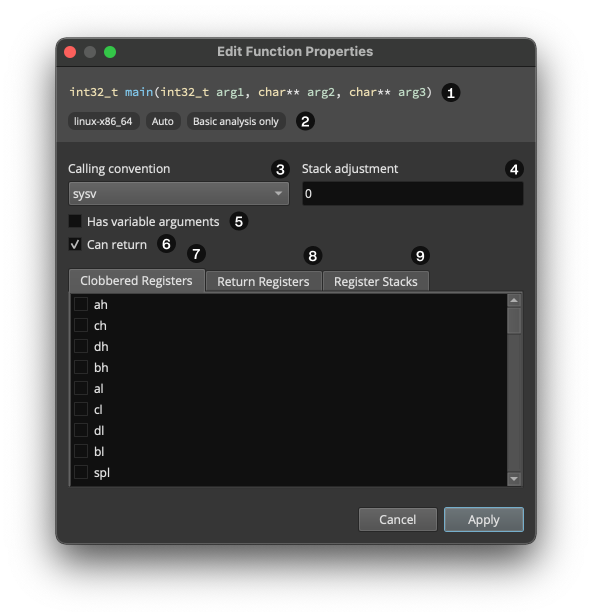
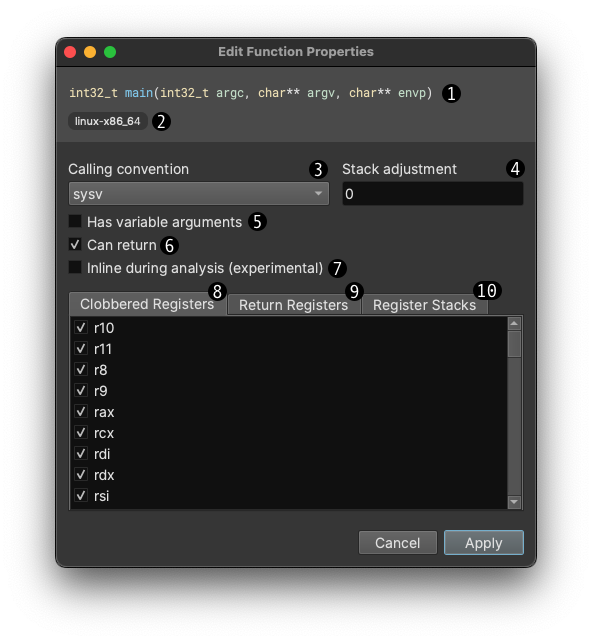
update function properties dialog docs for inlining

diff --git a/docs/guide/index.md b/docs/guide/index.md
@@ -444,7 +444,7 @@ The sorting order of segments and sections can be changed by clicking on any col
 
 The “Edit Function Properties” dialog provides the ability to easily configure some of a function’s more advanced properties. It can be opened via the context menu when a function is focused in the graph or linear views, or via the command palette. An overview of the UI is as follows:
 
-1. **Function prototype.** The function’s prototype. If the prototype is too long to fit inside the window, a scroll bar will appear.
+0. **Function prototype.** The function’s prototype. If the prototype is too long to fit inside the window, a scroll bar will appear.
 1. **Function info.** A list of conditionally-shown tags offering information about the function. Possible tags are as follows:
     - **Function architecture/platform**: The function's architecture/platform (e.g. `windows-x86_64`)
     - **Analysis skipped (too large)**: Analysis was skipped for this function because it was too large ([`analysis.limits.maxFunctionSize`](settings.md#analysis.limits.maxFunctionSize))
@@ -458,7 +458,7 @@ The “Edit Function Properties” dialog provides the ability to easily configu
 1. **Calling convention.** The calling convention this function uses. All calling conventions for the function’s architecture are available as choices.
 1. **Stack adjustment.** How many _extra_ bytes does this function remove from the stack upon return?
 1. **Has variable arguments.** Does this function accept a variable number of arguments?
-1. **Can return.** Does this function return? If not, #8 will be unavailable.
+1. **Inline during analysis.** Causes the function to be [inlined](https://api.binary.ninja/binaryninja.function-module.html#binaryninja.function.Function.inline_during_analysis) during analysis.
 1. **Clobbered registers.** The list of registers that this function clobbers; individual registers can be checked or unchecked.
 1. **Return registers.** The list of registers that this function returns data in; individual registers can be checked or unchecked.
 1. **Register stack adjustments.** A table containing a row for each register stack (e.g. x87) in the architecture, with the ability to adjust how many registers are removed from each stack when the function returns.
